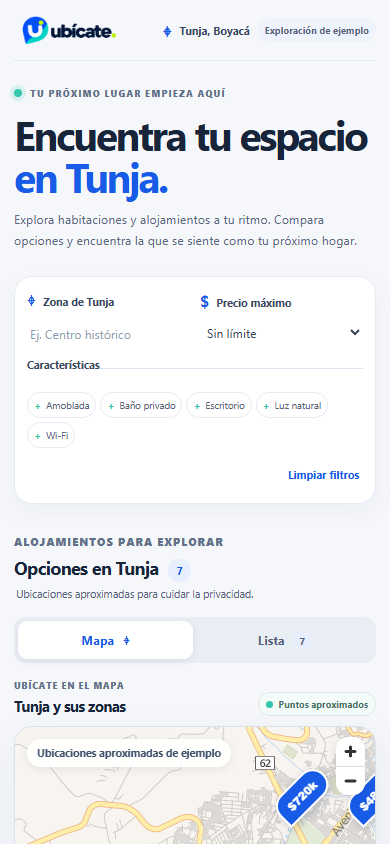
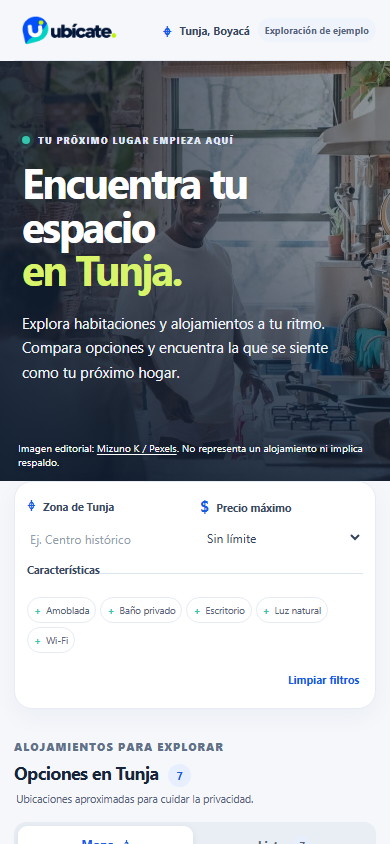
fix(f01-h01): restore approved editorial hero

diff --git a/apps/exploracion-local/src/ui/styles.css b/apps/exploracion-local/src/ui/styles.css
@@ -2,6 +2,36 @@
 
 .dialog-hero .art-disclosure{display:none}
 
+.exploration-hero{position:relative;isolation:isolate;display:flex;align-items:center;min-height:clamp(380px,38vw,480px);margin:0 -54px;padding:48px 8%;overflow:hidden;background:#17243a;color:#fff}
+.exploration-hero::before{position:absolute;z-index:-1;inset:0;background:linear-gradient(90deg,rgba(15,29,48,.94) 0%,rgba(15,29,48,.79) 43%,rgba(15,29,48,.12) 100%),linear-gradient(0deg,rgba(15,29,48,.58),transparent 30%);content:""}
+.exploration-hero-image{position:absolute;z-index:-2;inset:0;width:100%;height:100%;object-fit:cover;object-position:center 48%}
+.exploration-hero-copy{max-width:690px}
+.exploration-hero .eyebrow{color:#e1eaf8}
+.exploration-hero h1{font-size:clamp(2.65rem,5vw,4.4rem);color:#fff}
+.exploration-hero h1 span{color:var(--lime)}
+.exploration-hero .intro-copy{max-width:430px;margin:20px 0 0;color:#f0f4fb;font-size:1rem}
+.exploration-hero .eyebrow-dot{background:var(--teal)}
+.hero-image-credit{position:absolute;right:24px;bottom:13px;margin:0;color:#fff;font-size:.69rem;text-shadow:0 1px 4px #17243a}
+.hero-image-credit a{color:#fff;text-decoration:underline;text-underline-offset:2px}
+
+@media(max-width:1120px){
+  .exploration-hero{margin:0 -32px}
+}
+
+@media(max-width:760px){
+  .exploration-hero{min-height:420px;margin:0 -20px;padding:34px 22px 58px;align-items:center}
+  .exploration-hero::before{background:linear-gradient(90deg,rgba(15,29,48,.87),rgba(15,29,48,.43)),linear-gradient(0deg,rgba(15,29,48,.78),transparent 58%)}
+  .exploration-hero-image{object-position:58% center}
+  .exploration-hero-copy{max-width:540px}
+  .exploration-hero h1{font-size:clamp(2.65rem,10vw,3.5rem)}
+  .exploration-hero .intro-copy{max-width:400px;font-size:.92rem}
+  .hero-image-credit{right:18px;bottom:12px;left:18px;font-size:.64rem}
+}
+
+@media(max-width:390px){
+  .exploration-hero{margin:0 -14px}
+}
+
 :root{font-family:Inter,ui-sans-serif,system-ui,-apple-system,BlinkMacSystemFont,"Segoe UI",sans-serif;color:#17243a;background:#f5f7fb;font-synthesis:none;text-rendering:optimizeLegibility;-webkit-font-smoothing:antialiased;font-optical-sizing:auto;font-weight:400;--blue:#185be7;--teal:#35c7ae;--lime:#d7f46b;--canvas:#f5f7fb;--ink:#17243a;--muted:#657287;--line:#dce4f0;--card:#fff;--radius:1.1rem;--shadow:0 14px 38px rgba(23,36,58,.07)}
 *{box-sizing:border-box}body{margin:0;min-width:320px;background:var(--canvas)}button,input,select{font:inherit}button{color:inherit}button:focus-visible,a:focus-visible,input:focus-visible,select:focus-visible{outline:3px solid var(--blue);outline-offset:3px}button{cursor:pointer}.app-shell{max-width:1512px;margin:0 auto;padding:0 54px}.site-header{height:83px;display:flex;align-items:center;justify-content:space-between;border-bottom:1px solid rgba(220,228,240,.78)}.brand{width:143px;display:block}.brand img{display:block;width:100%;height:auto}.header-nav{display:flex;align-items:center;gap:22px;font-size:.88rem;font-weight:650}.header-location{display:inline-flex;align-items:center;gap:8px;color:#364762}.header-location span{color:var(--blue);font-size:1.15rem}.demo-pill{padding:9px 13px;border-radius:999px;background:#eff3fb;color:#56657d;font-size:.75rem;letter-spacing:.01em}.intro-row{display:flex;align-items:flex-end;justify-content:space-between;padding:44px 0 25px;gap:30px}.eyebrow,.section-label,.results-kicker{margin:0;color:#62718a;font-size:.67rem;font-weight:800;letter-spacing:.11em}.eyebrow{display:flex;align-items:center;gap:8px}.eyebrow-dot{width:8px;height:8px;border-radius:50%;background:var(--teal);box-shadow:0 0 0 4px rgba(53,199,174,.15)}h1{font-size:clamp(2.5rem,4.3vw,4rem);letter-spacing:-.055em;line-height:1.03;margin:14px 0 0;font-weight:750}h1 span{color:var(--blue)}.intro-copy{max-width:365px;margin:0 3px 6px 0;color:#58677e;line-height:1.65;font-size:.95rem}.search-panel{position:relative;display:grid;grid-template-columns:minmax(190px,1.05fr) minmax(180px,.9fr) minmax(320px,2.25fr) auto;align-items:center;gap:20px;background:var(--card);border:1px solid #e7ecf4;border-radius:18px;padding:17px 20px;box-shadow:0 8px 24px rgba(23,36,58,.045)}.filter-field{display:flex;flex-direction:column;gap:8px;min-width:0}.filter-field label,.feature-field legend{font-size:.72rem;font-weight:740;color:#394a65}.field-icon{color:var(--blue);font-size:1rem;margin-right:4px}.filter-field input,.filter-field select{border:0;background:transparent;color:#34435b;min-height:27px;padding:0 3px;font-size:.87rem;width:100%}.filter-field input::placeholder{color:#929db0}.filter-field select{cursor:pointer}.feature-field{border:0;border-left:1px solid var(--line);padding:0 0 0 18px;margin:0;min-width:0}.feature-field legend{padding:0 0 8px}.feature-options{display:flex;flex-wrap:wrap;gap:6px}.feature-chip{display:flex;align-items:center;gap:5px;white-space:nowrap;padding:7px 9px;border:1px solid #e6ebf3;border-radius:999px;color:#56647a;font-size:.7rem;cursor:pointer;transition:.15s}.feature-chip input{position:absolute;width:1px;height:1px;opacity:0}.feature-chip span{font-weight:800;color:var(--teal)}.feature-chip.is-active{background:#e1f7f2;border-color:#a2e6d7;color:#175f53}.feature-chip:focus-within{outline:3px solid var(--blue);outline-offset:2px}.clear-button{border:0;background:transparent;color:var(--blue);font-size:.77rem;font-weight:700;white-space:nowrap;padding:9px 4px}.results-heading{display:flex;justify-content:space-between;align-items:flex-end;margin:35px 0 15px}.results-heading h2,.section-title-row h2{font-size:1.3rem;letter-spacing:-.035em;margin:5px 0 0}.results-heading>p{margin:0 2px 4px;color:#536279;font-size:.78rem}.results-count{display:inline-flex;align-items:center;justify-content:center;vertical-align:middle;background:#e7efff;color:var(--blue);font-size:.68rem;min-width:23px;height:23px;border-radius:999px;margin-left:5px}.explore-grid{display:grid;grid-template-columns:minmax(0,1.12fr) minmax(390px,.88fr);gap:27px;align-items:start}.section-title-row{display:flex;align-items:flex-end;justify-content:space-between;min-height:45px;margin-bottom:12px}.section-title-row h2{font-size:1.06rem}.section-label{font-size:.61rem}.approx-badge{display:inline-flex;align-items:center;gap:6px;border:1px solid #dce8e5;background:#f4fcfa;color:#477267;font-size:.66rem;font-weight:650;border-radius:99px;padding:6px 9px}.approx-badge i,.availability i,.unit-availability i{width:7px;height:7px;display:inline-block;border-radius:50%;background:var(--teal)}.map-frame{position:relative;overflow:hidden;border-radius:18px;border:1px solid #d9e2e9;height:493px;background:#dfe9e5;box-shadow:var(--shadow)}.map-canvas{position:absolute;inset:0}.map-state{position:absolute;inset:0;display:flex;flex-direction:column;align-items:center;justify-content:center;text-align:center;padding:24px;background:linear-gradient(145deg,#e7f1ed,#edf1ea 48%,#e2ebdf);z-index:3}.map-state h3{margin:12px 0 4px;font-size:1.05rem}.map-state p{max-width:295px;margin:0 0 15px;color:#657287;font-size:.82rem;line-height:1.55}.map-state-icon{display:grid;place-items:center;width:42px;height:42px;border-radius:50%;background:white;color:var(--blue);font-size:1.3rem;font-weight:800;box-shadow:0 4px 16px #17243a18}.map-approx-note{position:absolute;z-index:2;left:12px;top:12px;border-radius:999px;background:#ffffffed;color:#41536b;padding:7px 10px;font-size:.66rem;font-weight:650;box-shadow:0 2px 9px #17243a14}.map-meta{display:flex;justify-content:space-between;padding:10px 3px;color:#536279;font-size:.68rem}.map-meta>span:first-child{display:flex;gap:7px;align-items:center}.legend-dot{width:8px;height:8px;border-radius:50%;background:var(--teal);box-shadow:0 0 0 3px #35c7ae3a}.map-price-marker{border:2px solid white;border-radius:999px 999px 999px 4px;background:var(--blue);color:white;font-size:11px;line-height:1;font-weight:800;padding:8px 10px;white-space:nowrap;box-shadow:0 3px 10px #14254a38;transform:rotate(-45deg);transition:transform .16s,background .16s;cursor:pointer}.map-price-marker::first-line{transform:rotate(45deg)}.map-price-marker.is-selected{background:#126b59;transform:rotate(-45deg) scale(1.15);z-index:4}.map-price-marker:focus-visible{outline:3px solid var(--lime);outline-offset:3px;z-index:5}.maplibregl-ctrl-group{border-radius:12px!important;overflow:hidden;box-shadow:0 2px 12px #17243a20!important}.maplibregl-ctrl-attrib{font-size:10px!important}.sort-note{font-size:.67rem;color:#536279}.listing-list{display:grid;gap:10px}.listing-card{position:relative;display:grid;grid-template-columns:minmax(0,1fr) 40px;gap:9px;align-items:center;background:#fff;border:1px solid #e7ecf4;border-radius:15px;padding:9px;transition:border-color .15s,box-shadow .15s,transform .15s;min-width:0}.listing-card.is-selected{border-color:#70a3ff;box-shadow:0 0 0 2px #185be71a,0 7px 20px #1b43800e}.listing-main{display:grid;grid-template-columns:132px minmax(0,1fr);gap:13px;align-items:stretch;text-align:left;background:transparent;border:0;padding:0;min-width:0;border-radius:10px}.listing-main:focus-visible{outline-offset:1px}.property-artwork{position:relative;overflow:hidden;isolation:isolate;height:190px;border-radius:15px;background:linear-gradient(145deg,#dff5ed,#abdccd);--wall:#eef7e9;--floor:#e6c8a5;--bed:#fdfdf8;--cover:#64bca7;--plant:#358f70}.artwork-compact{height:142px;border-radius:11px}.artwork-blue{background:linear-gradient(145deg,#dfeaff,#a9c9f1);--wall:#f1f4fa;--floor:#d2b99e;--cover:#7299de;--plant:#4b8c76}.artwork-lime{background:linear-gradient(145deg,#f0f6d9,#d9e7a6);--wall:#f7f5e8;--floor:#d9bd98;--cover:#b5c858;--plant:#719764}.artwork-sand{background:linear-gradient(145deg,#f6e8d2,#dfc29d);--wall:#faf2e7;--floor:#cba783;--cover:#c68f68;--plant:#478c72}.property-artwork::before{position:absolute;content:"";left:0;right:0;bottom:0;height:32%;background:linear-gradient(180deg,#cfae8c,#e2c9a9);z-index:-1}.art-sun{position:absolute;left:12%;top:14%;width:28px;height:28px;border-radius:50%;background:#fae9aa;opacity:.9}.art-window{position:absolute;right:15%;top:12%;width:34%;height:46%;border:7px solid #fffdf4;border-radius:4px;background:linear-gradient(180deg,#a7d6e5 0 52%,#9bc4a1 52% 72%,#78a987 72%);box-shadow:0 3px 9px #17243a19}.art-window i{position:absolute;display:block;background:#fffdf4}.art-window i:first-child{height:100%;width:4px;left:48%}.art-window i:last-child{width:100%;height:4px;top:48%}.art-bed{position:absolute;left:12%;bottom:18%;width:57%;height:34%;border-radius:9px 10px 4px 4px;background:#f7f6ee;box-shadow:0 5px 0 #987a5f}.art-bed::before{position:absolute;content:"";left:-6%;bottom:70%;width:20%;height:38%;border-radius:3px;background:#a9825d}.art-bed i{position:absolute;left:7%;top:8%;width:26%;height:35%;border-radius:8px;background:#fffefa;transform:rotate(-4deg)}.art-bed b{position:absolute;right:10%;top:14%;width:45%;height:72%;border-radius:8px;background:var(--cover);transform:skewY(3deg)}.art-bed em{position:absolute;right:12%;bottom:-16%;height:16px;width:5px;background:#745a46;box-shadow:-78px 0 #745a46}.art-desk{position:absolute;right:11%;bottom:17%;height:22%;width:18%;background:#956c4b;clip-path:polygon(0 0,100% 0,92% 18%,80% 100%,72% 100%,80% 18%,20% 18%,26% 100%,18% 100%,10% 18%)}.art-plant{position:absolute;right:9%;bottom:39%;width:18px;height:25px;border-radius:2px 2px 8px 8px;background:#b77f5d}.art-plant i{position:absolute;bottom:12px;left:3px;width:12px;height:19px;border-radius:100% 0 100% 0;background:var(--plant);transform:rotate(-25deg);transform-origin:bottom}.art-plant i:nth-child(2){transform:rotate(25deg);left:8px}.art-plant i:nth-child(3){transform:rotate(0);left:6px;bottom:18px}.art-disclosure{position:absolute;left:8px;bottom:8px;background:#fffdf2e8;border-radius:99px;padding:4px 7px;font-size:.56rem;font-weight:700;color:#455671}.listing-info{display:flex;flex-direction:column;align-items:flex-start;min-width:0;padding:4px 0}.fiction-tag{display:inline-flex;border-radius:99px;background:#f0f8cf;padding:4px 7px;color:#52631c;font-size:.55rem;font-weight:800;letter-spacing:.055em}.listing-name{display:block;width:100%;font-size:.89rem;font-weight:750;letter-spacing:-.02em;line-height:1.28;margin-top:7px;overflow:hidden;text-overflow:ellipsis;white-space:nowrap}.listing-unit{font-size:.71rem;color:#455670;margin-top:2px}.listing-unit span{color:#536279}.listing-zone{color:#536279;font-size:.68rem;margin-top:6px}.listing-zone span{color:var(--blue)}.listing-feature-row{display:flex;gap:4px;margin-top:7px;flex-wrap:wrap}.mini-feature{border-radius:5px;background:#f1f4f8;padding:4px 6px;color:#58677e;font-size:.58rem}.listing-bottom{display:flex;width:100%;justify-content:space-between;align-items:center;gap:5px;margin-top:auto;padding-top:7px}.listing-bottom strong{font-size:.79rem;white-space:nowrap}.listing-bottom small{font-size:.61rem;font-weight:500;color:#536279}.availability{display:inline-flex;align-items:center;gap:5px;color:#397768;font-size:.58rem;white-space:nowrap}.availability i{width:6px;height:6px}.detail-arrow{width:34px;height:34px;border-radius:50%;border:1px solid #e5eaf2;background:white;color:var(--blue);font-size:1.05rem;transition:.15s}.detail-arrow:hover{background:#eef3ff;border-color:#bdd0ff}.empty-state{min-height:250px;display:flex;flex-direction:column;align-items:center;justify-content:center;text-align:center;padding:25px;border-radius:16px;border:1px dashed #cbd5e4;background:#fff}.empty-state>span{font-size:1.8rem;color:var(--blue)}.empty-state h3{margin:8px 0 4px;font-size:1rem}.empty-state p{margin:0 0 16px;color:#758198;font-size:.8rem}.button{border:0;border-radius:999px;padding:10px 15px;font-size:.77rem;font-weight:750}.button-primary{background:var(--blue);color:white}.button-primary:hover{background:#1248b8}.button-secondary{background:#fff;border:1px solid #d9e3f0;color:var(--blue)}.demo-tools{display:flex;justify-content:space-between;align-items:center;padding:22px 0 28px;margin-top:13px;border-top:1px solid #e1e7f0}.demo-tools p{margin:0;color:#536279;font-size:.72rem}.demo-tools button{border:1px dashed #b9c6d9;border-radius:999px;padding:8px 12px;background:transparent;color:#536279;font-size:.68rem}.demo-tools button:hover{border-color:var(--blue);color:var(--blue)}.site-footer{min-height:67px;border-top:1px solid #e1e7f0;display:flex;align-items:center;gap:11px;color:#536279;font-size:.7rem}.site-footer img{width:78px;height:auto}.footer-example{margin-left:auto;border-radius:99px;padding:6px 9px;background:#eef2f8}.mobile-switch{display:none}.sr-only{position:absolute;width:1px;height:1px;padding:0;margin:-1px;overflow:hidden;clip:rect(0,0,0,0);white-space:nowrap;border:0}.dialog-backdrop{position:fixed;inset:0;background:#101d31a8;backdrop-filter:blur(5px);z-index:20;display:flex;align-items:center;justify-content:center;padding:22px}.property-dialog{position:relative;background:#fff;border-radius:20px;width:min(760px,100%);max-height:min(92vh,880px);overflow:auto;box-shadow:0 30px 90px #07142a55;scrollbar-color:#c5d0e1 transparent}.dialog-close{position:absolute;right:13px;top:13px;z-index:3;width:38px;height:38px;border:1px solid #ffffffad;border-radius:50%;background:#ffffffed;font-size:1.45rem;color:#33425a}.dialog-hero{position:relative}.dialog-hero .property-artwork{height:250px;border-radius:20px 20px 0 0}.dialog-fiction{position:absolute;left:18px;bottom:15px;border-radius:99px;background:#fff;padding:7px 11px;color:#43536a;font-size:.67rem;font-weight:700}.dialog-content{padding:25px 30px 30px}.dialog-content h2{font-size:1.75rem;letter-spacing:-.04em;margin:7px 0 0}.dialog-subtitle{margin:5px 0 20px;color:#68768c;font-size:.84rem}.dialog-section{border-top:1px solid #e8edf3;padding-top:17px;margin-top:17px}.dialog-section-title{display:flex;justify-content:space-between;align-items:center}.dialog-section h3{font-size:.98rem;margin:0}.dialog-section-title>span{color:#536279;font-size:.69rem}.unit-list{display:grid;grid-template-columns:1fr 1fr;gap:9px;margin-top:10px}.unit-row{border:1px solid #e4eaf1;border-radius:12px;padding:13px}.unit-heading{display:flex;justify-content:space-between;align-items:flex-start;gap:8px}.unit-heading h4{margin:4px 0 0;font-size:.86rem}.unit-heading strong{font-size:.78rem;white-space:nowrap}.unit-heading strong small{font-size:.61rem;color:#536279;font-weight:500}.unit-kind{color:#4f6280;font-size:.61rem;font-weight:750}.unit-row>p{color:#68768c;font-size:.7rem;line-height:1.45;margin:9px 0}.unit-availability{display:flex;align-items:center;gap:6px;color:#367466;font-size:.66rem}.common-section h3{margin-bottom:10px}.common-chips{display:flex;gap:6px;flex-wrap:wrap}.common-chips span{background:#e1f7f2;color:#236657;border-radius:99px;padding:7px 10px;font-size:.68rem}.approx-disclosure{display:flex;align-items:flex-start;gap:11px;background:#eef4ff;border-radius:12px;padding:12px;margin-top:16px;color:var(--blue)}.approx-disclosure>span{font-size:1.1rem}.approx-disclosure p{margin:0;color:#596a82;font-size:.7rem;line-height:1.5}.approx-disclosure strong{color:#334762}.contact-notice{margin-top:10px;padding:13px;border-radius:12px;background:#f6f7fa}.contact-notice strong{font-size:.75rem}.contact-notice p{font-size:.7rem;color:#536279;line-height:1.5;margin:5px 0 0}
 

diff --git a/apps/exploracion-local/src/ui/App.tsx b/apps/exploracion-local/src/ui/App.tsx
@@ -106,12 +106,14 @@ export default function App() {
       </header>
 
       <main id="inicio">
-        <section className="intro-row" aria-labelledby="page-title">
-          <div>
+        <section className="exploration-hero" aria-labelledby="page-title">
+          <img className="exploration-hero-image" src="/hero-cocina-compartida.jpg" alt="Dos hombres cocinan juntos en una cocina compartida." width="1200" height="800" fetchPriority="high" />
+          <div className="exploration-hero-copy">
             <p className="eyebrow"><span className="eyebrow-dot" /> TU PRÓXIMO LUGAR EMPIEZA AQUÍ</p>
             <h1 id="page-title">Encuentra tu espacio<br /><span>en Tunja.</span></h1>
+            <p className="intro-copy">Explora habitaciones y alojamientos a tu ritmo. Compara opciones y encuentra la que se siente como tu próximo hogar.</p>
           </div>
-          <p className="intro-copy">Explora habitaciones y alojamientos a tu ritmo. Compara opciones y encuentra la que se siente como tu próximo hogar.</p>
+          <p className="hero-image-credit">Imagen editorial: <a href="https://www.pexels.com/photo/men-cooking-at-home-13334672/" target="_blank" rel="noreferrer">Mizuno K / Pexels</a>. No representa un alojamiento ni implica respaldo.</p>
         </section>
 
         <section className="search-panel" aria-label="Filtros de alojamiento">

diff --git a/docs/fases/F01/H01/evidencia.md b/docs/fases/F01/H01/evidencia.md
@@ -6,13 +6,15 @@
 
 **Comprobación final del PR #1, 2026-10-30:** se reprodujo con Chromium/Playwright la secuencia de abrir a 390 px, elegir Lista y cambiar a 768 y 1440 px sin elegir Mapa. El CSS mostró el mapa en escritorio y MapLibre redimensionó el canvas; los siete marcadores permanecieron visibles y el clic en `arrayan-2` seleccionó la unidad correcta. No se reprodujo un defecto, por lo que no se modificó `App.tsx`; se añadió esta secuencia como regresión automatizada y se guardaron capturas. El estado de Lista se conservó durante los cambios de tamaño. Esta verificación cubre la observación técnica del PR, no constituye aceptación final del hito.
 
+**Corrección del hero principal, 2026-10-31:** se recuperó la composición aprobada en F00-H03: fotografía editorial a ancho completo, texto superpuesto y degradado oscuro para contraste. Se mantuvieron el titular/copy y los controles de exploración existentes. La imagen principal adjunta al prototipo H03 no tiene procedencia ni licencia verificables, por lo que se usó el fallback ya versionado y acreditado: “Men Cooking at Home”, de Mizuno K, Pexels, foto 13334672. La [página de la foto](https://www.pexels.com/photo/men-cooking-at-home-13334672/) la identifica como gratuita; la [licencia Pexels](https://www.pexels.com/legal-pages/license) permite uso y modificación, con restricciones como no insinuar respaldo. El archivo servido localmente es `apps/exploracion-local/public/hero-cocina-compartida.jpg` (149.384 bytes; 1200×800). El texto alternativo describe lo visible sin afirmar que las personas sean estudiantes. Se añadió atribución enlazada y aclaración de que la imagen no representa un alojamiento ni implica respaldo. La validación Playwright carga la imagen local, comprueba su texto alternativo, crédito, dimensiones visibles y ausencia de desbordamiento a 320, 390, 768 y 1440 px; las capturas `exploracion-*` registran la nueva portada. La licencia consultada no implica respaldo de las personas fotografiadas ni permite usar la imagen como anuncio de Ubícate. La revisión visual humana de Dirección sigue pendiente.
+
 ## Entorno y reproducibilidad
 
 - Aplicación local servida por Vite en `127.0.0.1`; revisión interactiva automatizada con Playwright 1.64.1 y Chromium headless aislado.
 - No se usó ni modificó el perfil de Chrome DevTools existente. El recorrido no se conectó a Supabase.
 - Pruebas de layout en `320×844`, `390×844`, `768×1024` y `1440×1000`.
 - Solicitudes externas observadas: exclusivamente `tiles.openfreemap.org`. En el ensayo de fallo, Playwright interceptó esas solicitudes y respondió HTTP 503 sintético. No se causó una caída real del proveedor.
-- Las coordenadas y publicaciones son ficticias. No se usaron datos personales, alojamientos reales, fotografías externas, credenciales ni secretos.
+- Las coordenadas y publicaciones son ficticias. No se usaron datos personales, alojamientos reales, fotos de inmuebles, credenciales ni secretos. El hero usa una foto editorial de Pexels con atribución y licencia registradas arriba.
 - Las vistas pequeñas son emulación de viewport en Chromium; no son prueba en teléfono físico. La aplicación escucha solo en loopback y no se abrió el servidor a la red local.
 
 Comando reproducible, desde `apps/exploracion-local`, con Vite ya disponible en localhost:
@@ -33,6 +35,7 @@ El recorrido guarda resultados estructurados y capturas en [`capturas-browser`](
 | Error cartográfico posterior al estilo | Se inyectó HTTP 503 a tiles luego de cargar el estilo | El adaptador escucha errores de MapLibre también después de `style.load`, conserva el resto de la interfaz y ofrece reintento | Estado informativo visible; filtros y dos resultados sobreviven; reintento repone dos marcadores y retira el error |
 | Selector mapa/lista, teclado, foco y resize | Recorrido con Playwright por teclado y cambios de visibilidad | Controles semánticos como botones toggle con `aria-pressed`; foco por unidad al sincronizar; foco inicial/cierre/restauración del diálogo; `map.resize()` al mostrarse y cambiar viewport | Enter cambia a lista; foco del diálogo y retorno comprobados; canvas vuelve a medir 360 px en contenedor de 360 px después de ocultar/mostrar |
 | Observación final PR #1: Lista móvil y cambio a escritorio | Playwright, secuencia 390 → 768 → 1440 px sin pulsar Mapa | Mapa visible en escritorio; medidas CSS y bitmap del canvas iguales al contenedor con tolerancia <1 px; siete marcadores visibles e interactivos | PASS; detalles en `listToDesktopResize` del JSON y capturas `lista-resize-*` |
+| Hero principal sin imagen contextual | F00-H03 aprobó una imagen editorial a ancho completo con texto sobre degradado; el primer H01 solo mostraba texto | Se colocó la foto local licenciada de Mizuno K / Pexels, manteniendo textos, filtros y búsqueda existentes; se añadió crédito editorial visible | PASS Playwright a 320/390/768/1440: imagen 1200×800 cargada, crédito visible y sin overflow. Inspección visual de capturas móvil/escritorio realizada; aceptación de Dirección pendiente |
 | Etiquetas superpuestas en ficha | Reproducido antes de corregir en 1440×1000 y 390×844; los rectángulos de ambas etiquetas se intersectaban | CSS oculta `.dialog-hero .art-disclosure` solo dentro del hero del diálogo | PASS en escritorio y móvil: solo queda visible «Inmueble de ejemplo · Tunja»; tarjeta conserva «Ilustración de ejemplo» y el `aria-label` original |
 | Bundle local de MapLibre no iniciaba worker en Vite | Error del worker impedía dibujar el mapa en Chromium | URL explícita del worker de MapLibre para el bundler Vite | Chromium cargó estilo, tiles y controles; mapa pintado en capturas |
 | Contraste/etiquetas detectadas por axe | Primer audit reportó contraste insuficiente y diferencia entre texto visible y nombre accesible | Ajustes de tonos secundarios y nombres de marcadores/control de lista; identidad aprobada y logo sin cambios | axe en vista inicial, móvil y diálogo no reporta violaciones |

diff --git a/apps/exploracion-local/README.md b/apps/exploracion-local/README.md
@@ -52,7 +52,7 @@ $env:UBICATE_URL = 'http://127.0.0.1:4173/'
 npm run test:browser
 ```
 
-El recorrido verifica filtros compuestos y vacíos, sincronización de los dos sentidos, cada viewport de 320, 390, 768 y 1440 px, foco del diálogo, axe WCAG 2.2 A/AA, resize del mapa, aislamiento de red y un HTTP 503 de tiles inyectado en la ruta OpenFreeMap después de cargar el estilo. Produce capturas y `browser-qa-result.json` en `../../docs/fases/F01/H01/capturas-browser/`.
+El recorrido verifica que la foto local del hero y su crédito sean visibles, el texto alternativo, filtros compuestos y vacíos, sincronización de los dos sentidos, cada viewport de 320, 390, 768 y 1440 px, foco del diálogo, axe WCAG 2.2 A/AA, resize del mapa, aislamiento de red y un HTTP 503 de tiles inyectado en la ruta OpenFreeMap después de cargar el estilo. Produce capturas y `browser-qa-result.json` en `../../docs/fases/F01/H01/capturas-browser/`.
 
 El servidor está enlazado a `127.0.0.1`, así que el teléfono físico no puede abrirlo en la red local. Las capturas Playwright a 320 y 390 px sirven como comprobación automatizada de layout móvil, no como prueba en dispositivo físico. No se abre el servidor a la red ni se cambia el firewall en este hito.
 
@@ -87,6 +87,6 @@ Antes de usarlo, consulta las [condiciones OpenFreeMap](https://openfreemap.org/
 
 - Los puntos de mapa y anuncios son inventados para Tunja. No se deben interpretar como viviendas, disponibilidad o precios reales.
 - Los gráficos de habitación son ilustraciones CSS, no fotografías de alojamientos.
-- Se reutiliza el logo aprobado de F00-H03 y sus colores. La imagen editorial de H03, cuyos derechos no están verificados, no se copia.
+- Se reutiliza el logo y la paleta aprobados de F00-H03. El hero usa la foto “Men Cooking at Home” de Mizuno K, alojada localmente como `public/hero-cocina-compartida.jpg`; la fuente y condiciones están en [Pexels](https://www.pexels.com/photo/men-cooking-at-home-13334672/) y [su licencia](https://www.pexels.com/legal-pages/license). La atribución visible aclara que la imagen es editorial, no representa un alojamiento ni implica respaldo. La imagen adjunta a H03 con origen no verificable no se distribuye con la aplicación.
 - WhatsApp, registro, contacto, reservas, autenticación, persistencia, backend, Supabase y visor 360° no forman parte de esta versión.
 - El estado reproducible de AC-FE-01 a AC-FE-09 está en el [registro de evidencia de F01-H01](../../docs/fases/F01/H01/evidencia.md). Responsive y accesibilidad se verificaron en Chromium automatizado; revisión visual de Dirección y dispositivo físico siguen pendientes.
